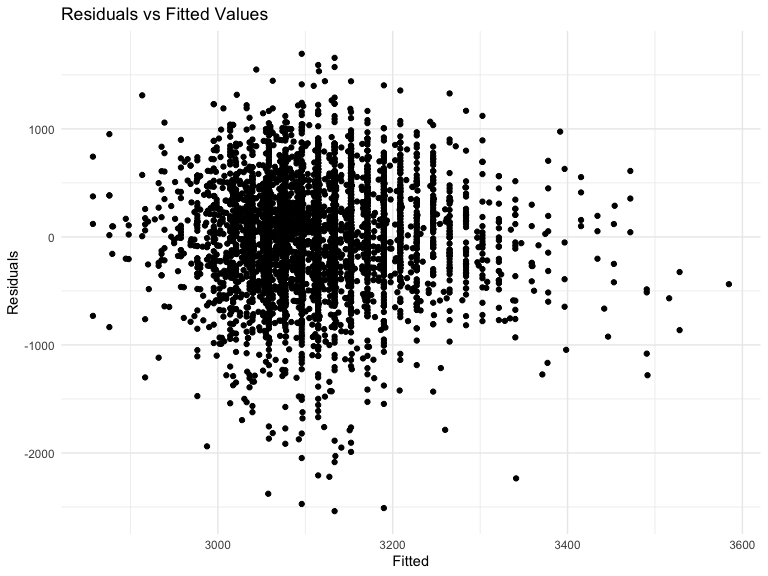
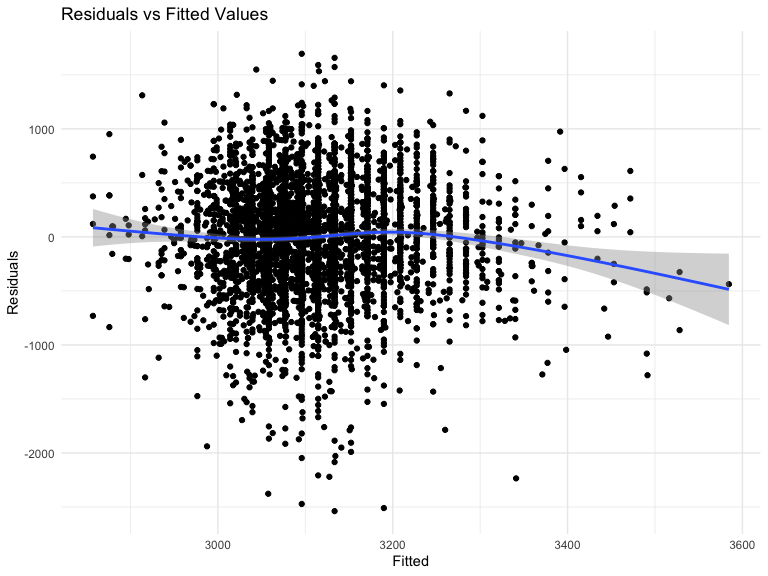
Adding the geom_smooth() line to the scatter plot

Changed region(s): [[0.0938, 0.3438, 0.9688, 0.5625]]

diff --git a/p8105_hw6_sm5567.md b/p8105_hw6_sm5567.md
@@ -367,14 +367,20 @@ residuals_predictions_data =
   modelr::add_predictions(fit_birthweight)
 
 # Creating a scatter plot of residuals against fitted values
-ggplot(residuals_predictions_data, aes(x = pred, y = resid)) + 
+residuals_plot =
+  ggplot(residuals_predictions_data, aes(x = pred, y = resid)) + 
   geom_point() +
   labs(
     title = "Residuals vs Fitted Values",
     x = "Fitted",
     y = "Residuals"
-  )
+  ) +
+  geom_smooth()
+
+print(residuals_plot)
 ```
+
+    ## `geom_smooth()` using method = 'gam' and formula = 'y ~ s(x, bs = "cs")'
 
 <img src="p8105_hw6_sm5567_files/figure-gfm/unnamed-chunk-12-1.png" width="90%" />
 \* Created a plot of model residuals against fitted values – used
